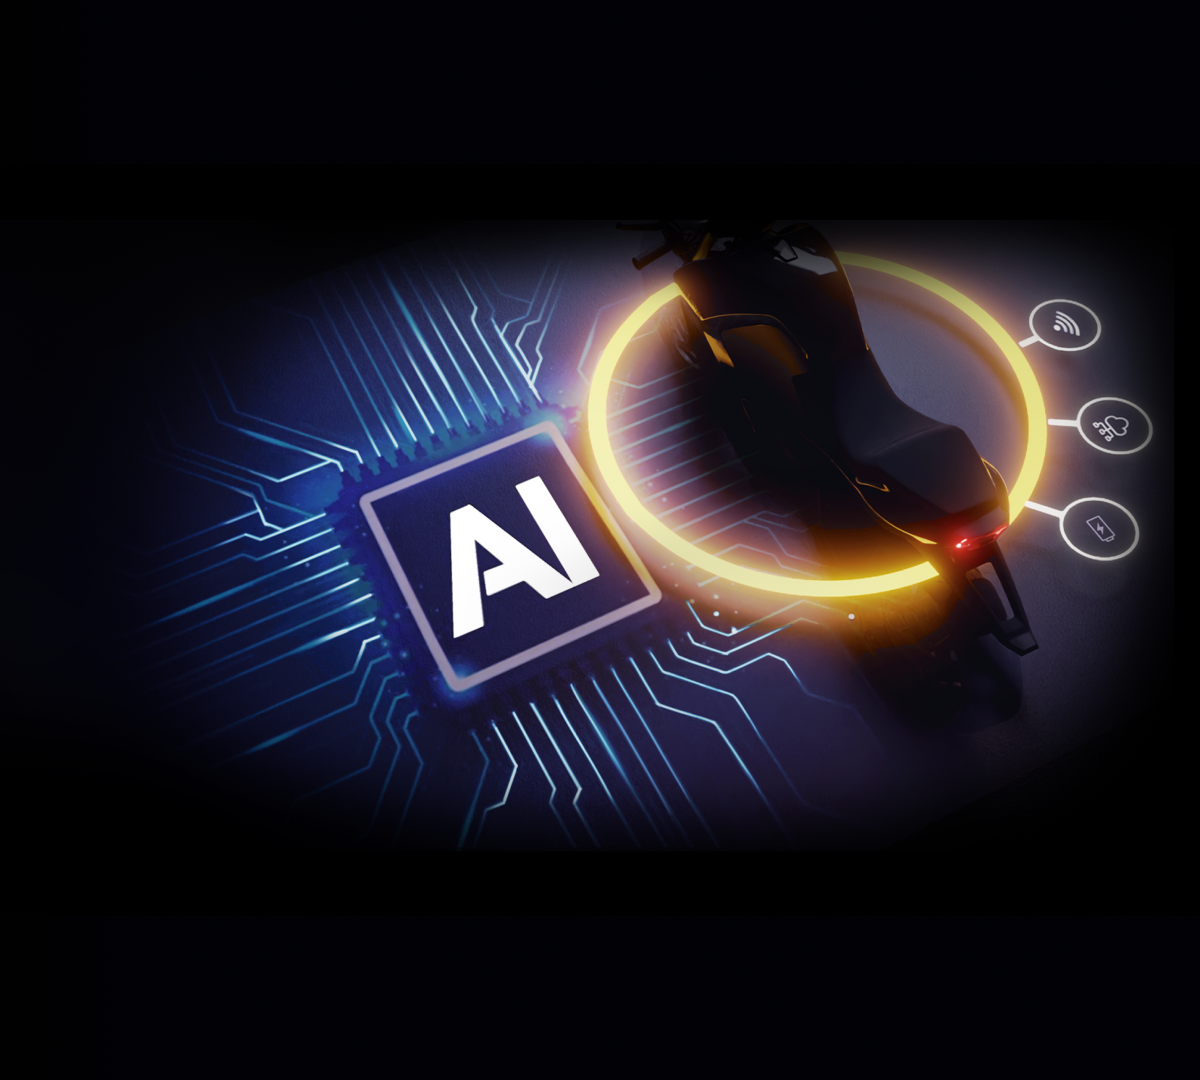
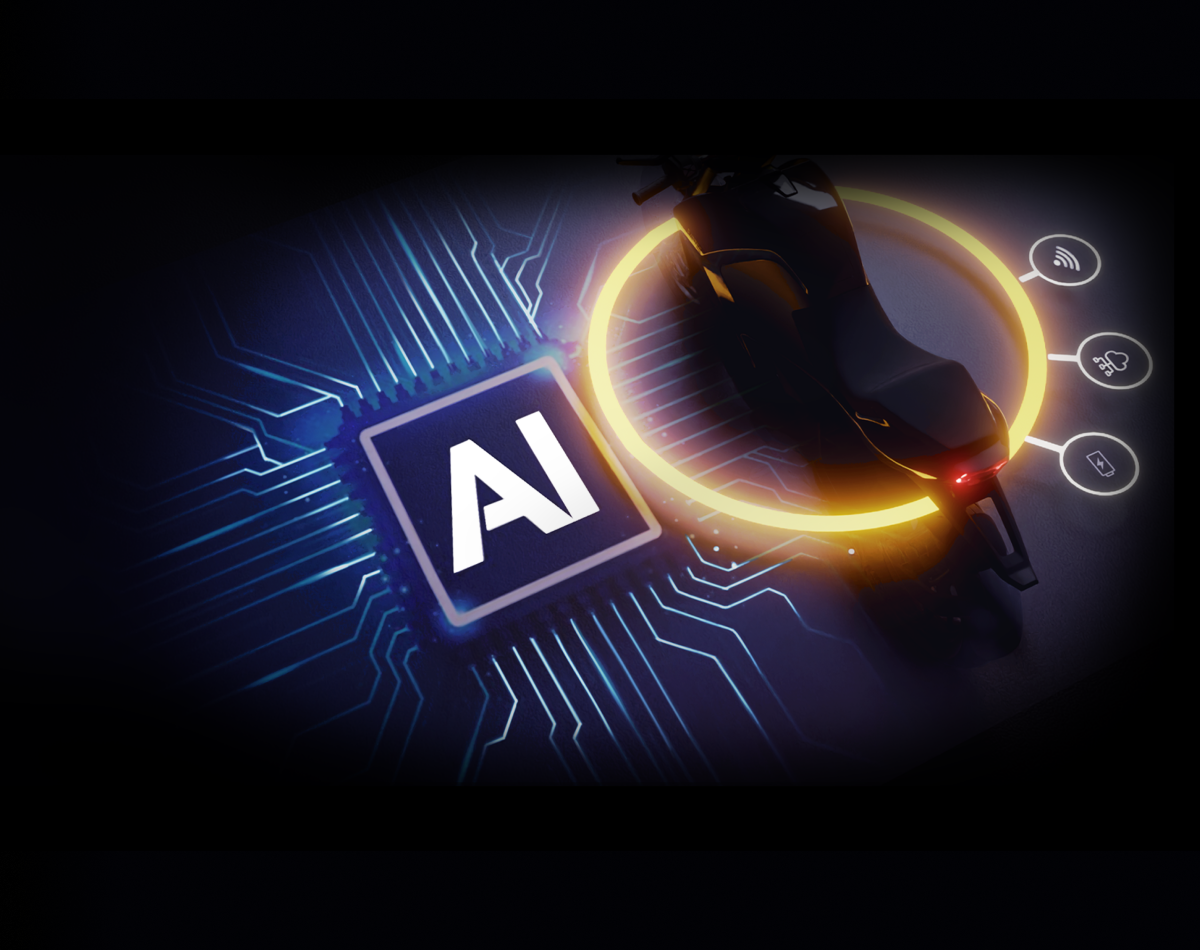
commit

diff --git a/pages/techstory.jsx b/pages/techstory.jsx
@@ -1,7 +1,5 @@
 import NavBar from '../components/NavBar'
-import ReserveBtn from '../components/ReserveBtn'
 import BottomLoader from '../components/BottomLoader'
-import SideActiveIndicator from '../components/SideActiveIndicatorHome'
 import Image from 'next/image'
 import { useEffect, useRef, useState } from 'react'
 import SideActiveIndicatorTechStory from '../components/SideActiveIndicatorTechStory'
@@ -60,7 +58,7 @@ function Techstory() {
             <NavBar></NavBar>
             <SideActiveIndicatorTechStory index={sectionIndex}></SideActiveIndicatorTechStory>
             {/* OUR PRODUCTS SECTION */}
-            <section className='bg-black aspect-video snap-center relative' id='products-id' ref={productsSection}>
+            <section className='bg-black aspect-16/8 snap-center relative' id='products-id' ref={productsSection}>
                 <div className=' h-12 '></div>
                 <div>
                     <Image
@@ -85,7 +83,7 @@ function Techstory() {
                 </div>
             </section>
             {/* VCU SECTION */}
-            <section className='bg-black aspect-video snap-center relative' id='vcu-id' ref={vcuSection}>
+            <section className='bg-black aspect-16/8 snap-center relative' id='vcu-id' ref={vcuSection}>
                 <div className="flex h-full">
                     {/* SIDE CONTENTS */}
                     <div className='w-2/6 flex flex-col justify-center pl-20 pr-4'>
@@ -108,7 +106,7 @@ function Techstory() {
                         <Image
                             src="/images/2.png"
                             width={1200}
-                            height={1080}
+                            height={950}
                             priority={true}
                         />
                     </div>
@@ -116,7 +114,7 @@ function Techstory() {
                 <BottomLoader></BottomLoader>
             </section>
             {/* BMS SECTION */}
-            <section className='bg-black aspect-video snap-center relative' id='bms-id' ref={bmsSection}>
+            <section className='bg-black aspect-16/8 snap-center relative' id='bms-id' ref={bmsSection}>
                 <div className="flex h-full">
                     {/* SIDE CONTENTS */}
                     <div className='w-2/6 flex flex-col justify-center pl-20 pr-4'>
@@ -149,7 +147,7 @@ function Techstory() {
                 <BottomLoader></BottomLoader>
             </section>
             {/* MOTOR SECTION */}
-            <section className='bg-black aspect-video snap-center relative' id='motor-id' ref={motorSection}>
+            <section className='bg-black aspect-16/8 snap-center relative' id='motor-id' ref={motorSection}>
                 <div className="flex h-full">
                     {/* SIDE CONTENTS */}
                     <div className='w-2/6 flex flex-col justify-center pl-20 pr-4'>
@@ -185,7 +183,7 @@ function Techstory() {
                 <BottomLoader></BottomLoader>
             </section>
             {/* CCS SECTION */}
-            <section className='bg-black aspect-video snap-center relative' id='ccs-id' ref={ccsSection}>
+            <section className='bg-black aspect-16/8 snap-center relative' id='ccs-id' ref={ccsSection}>
                 <div className="flex h-full">
                     {/* SIDE CONTENTS */}
                     <div className='w-2/6 flex flex-col justify-center pl-20 pr-4 z-20'>
@@ -212,7 +210,7 @@ function Techstory() {
                 <BottomLoader></BottomLoader>
             </section>
             {/* Saftey SECTION */}
-            <section className='bg-black aspect-video snap-center relative' id='safety-id' ref={safetySection}>
+            <section className='bg-black aspect-16/8 snap-center relative' id='safety-id' ref={safetySection}>
                 <div className="flex h-full">
                     {/* SIDE CONTENTS */}
                     <div className='w-2/6 flex flex-col justify-center pl-20 pr-4 z-10'>

diff --git a/components/NavLinks.js b/components/NavLinks.js
@@ -1,0 +1,47 @@
+import React from 'react'
+import { IconContext } from 'react-icons/lib'
+import { IoMdClose } from 'react-icons/io'
+import Link from 'next/link'
+
+function NavLinks(props) {
+    function cloaseNavLinks() {
+        console.log("Closed the NAVLINK")
+        props.reference.current.style.display = 'none'
+    }
+    return (
+        <nav className='pt-4 px-8 backdrop-blur-lg
+        bg-gray-400/50 z-50 h-100vh w-2/6 shadow-md top-0 right-0 fixed hidden' ref={props.reference}>
+            <div className="flex flex-col items-end">
+                <div className='flex items-center'>
+                    <h4>Close</h4>
+                    <IconContext.Provider value={{
+                        color: '#E0B317',
+                        size: '2rem'
+                    }}>
+                        <IoMdClose onClick={cloaseNavLinks} className='cursor-pointer' />
+                    </IconContext.Provider>
+                </div>
+                <Link href={'/home'}>
+                    <h1 className='text-3xl my-8 cursor-pointer hover:font-medium'>Home</h1>
+                </Link>
+                <Link href={'/techstory'}>
+                    <h1 className='text-3xl my-8 cursor-pointer hover:font-medium'>Tech Story</h1>
+                </Link>
+                <Link href={'/home'}>
+                    <h1 className='text-3xl my-8 cursor-pointer hover:font-medium'>OEM Solutions</h1>
+                </Link>
+                <Link href={'/culture'}>
+                    <h1 className='text-3xl my-8 cursor-pointer hover:font-medium'>Culture</h1>
+                </Link>
+                <Link href={'/home'}>
+                    <h1 className='text-3xl my-8 cursor-pointer hover:font-medium'>Contact</h1>
+                </Link>
+                <Link href={'/home'}>
+                    <h1 className='text-3xl my-8 cursor-pointer hover:font-medium'>Career</h1>
+                </Link>
+            </div>
+        </nav>
+    )
+}
+
+export default NavLinks

diff --git a/components/NavBar.js b/components/NavBar.js
@@ -1,21 +1,32 @@
 import { IconContext } from 'react-icons/lib'
 import { IoMdMenu } from 'react-icons/io'
+import NavLinks from './NavLinks'
+import { useRef } from 'react'
+
 
 function NavBar() {
+    const btnRef = useRef()
+    function openNavLinks() {
+        console.log("Clicked")
+        btnRef.current.style.display = 'block'
+    }
     return (
-        <nav className='pt-4 px-8 backdrop-blur-sm bg-black/30 z-50 h-20vh w-full shadow-md top-0 fixed'>
-            <div className="flex justify-between">
-                <h1 className='font-nebula font-semibold text-white text-2xl'>
-                    RAPTEE
-                </h1>
-                <IconContext.Provider value={{
-                    color: 'white',
-                    size: '2rem'
-                }}>
-                    <IoMdMenu />
-                </IconContext.Provider>
-            </div>
-        </nav>
+        <div>
+            <nav className='pt-4 px-8 backdrop-blur-sm bg-black/30 z-50 h-20vh w-full shadow-md top-0 fixed'>
+                <div className="flex justify-between">
+                    <h1 className='font-nebula font-semibold text-white text-2xl'>
+                        RAPTEE
+                    </h1>
+                    <IconContext.Provider value={{
+                        color: 'white',
+                        size: '2rem'
+                    }}>
+                        <IoMdMenu onClick={openNavLinks} className='cursor-pointer' />
+                    </IconContext.Provider>
+                </div>
+            </nav>
+            <NavLinks reference={btnRef}></NavLinks>
+        </div>
     )
 }
 

diff --git a/pages/index.js b/pages/index.js
@@ -194,7 +194,7 @@ export default function Home() {
                 <div className="underline w-14 h-0.5 rounded-xl my-2 mx-1 bg-highlight"></div>
               </div>
             </div>
-            <ReserveBtn name={"Reserve Now"}></ReserveBtn>
+            <ReserveBtn name={"Reserve Now"} route={'/techstory'}></ReserveBtn>
             <BottomLoader></BottomLoader>
           </div>
         </section>
@@ -309,9 +309,7 @@ export default function Home() {
               </div>
             </div>
           </div>
-          <Link href={'/techstory'}>
-            <ReserveBtn name={'Tech Story'}></ReserveBtn>
-          </Link>
+          <ReserveBtn name={'Tech Story'} route={'/techstory'}></ReserveBtn>
         </section>
       </main>
     </div>

diff --git a/components/ReserveBtn.js b/components/ReserveBtn.js
@@ -1,7 +1,8 @@
+import Router from 'next/router'
 
 function ReserveBtn(props) {
     return (
-        <button
+        <button onClick={() => Router.push(props.route)}
             className='rounded-none border-solid border
             border-highlight px-3 py-2 hover:bg-highlight-low absolute bottom-32 left-1/2 -translate-x-1/2'>
             <h2 className=' text-gray-300 tracking-widest font-mont'>{props.name}</h2>

diff --git a/components/BottomLoader.js b/components/BottomLoader.js
@@ -2,7 +2,7 @@ import React from 'react'
 
 function BottomLoader() {
     return (
-        <div className="absolute bottom-10 left-1/2 -translate-x-1/2">
+        <div className="absolute bottom-12 left-1/2 -translate-x-1/2">
             <div className="loader-line"></div>
         </div>
     )

diff --git a/tailwind.config.js b/tailwind.config.js
@@ -9,6 +9,7 @@ module.exports = {
       colors: {
         'highlight': '#E0B317',
         'highlight-low': '#5D4A0A',
+        'navlinksbg': '#424242',
       },
       height: {
         '10vh': '10vh',

diff --git a/styles/globals.css b/styles/globals.css
@@ -46,7 +46,7 @@ a {
 
 
 ::-webkit-scrollbar {
-  width: 12px;
+  width: 0px;
   background-color: black;
 }
 
